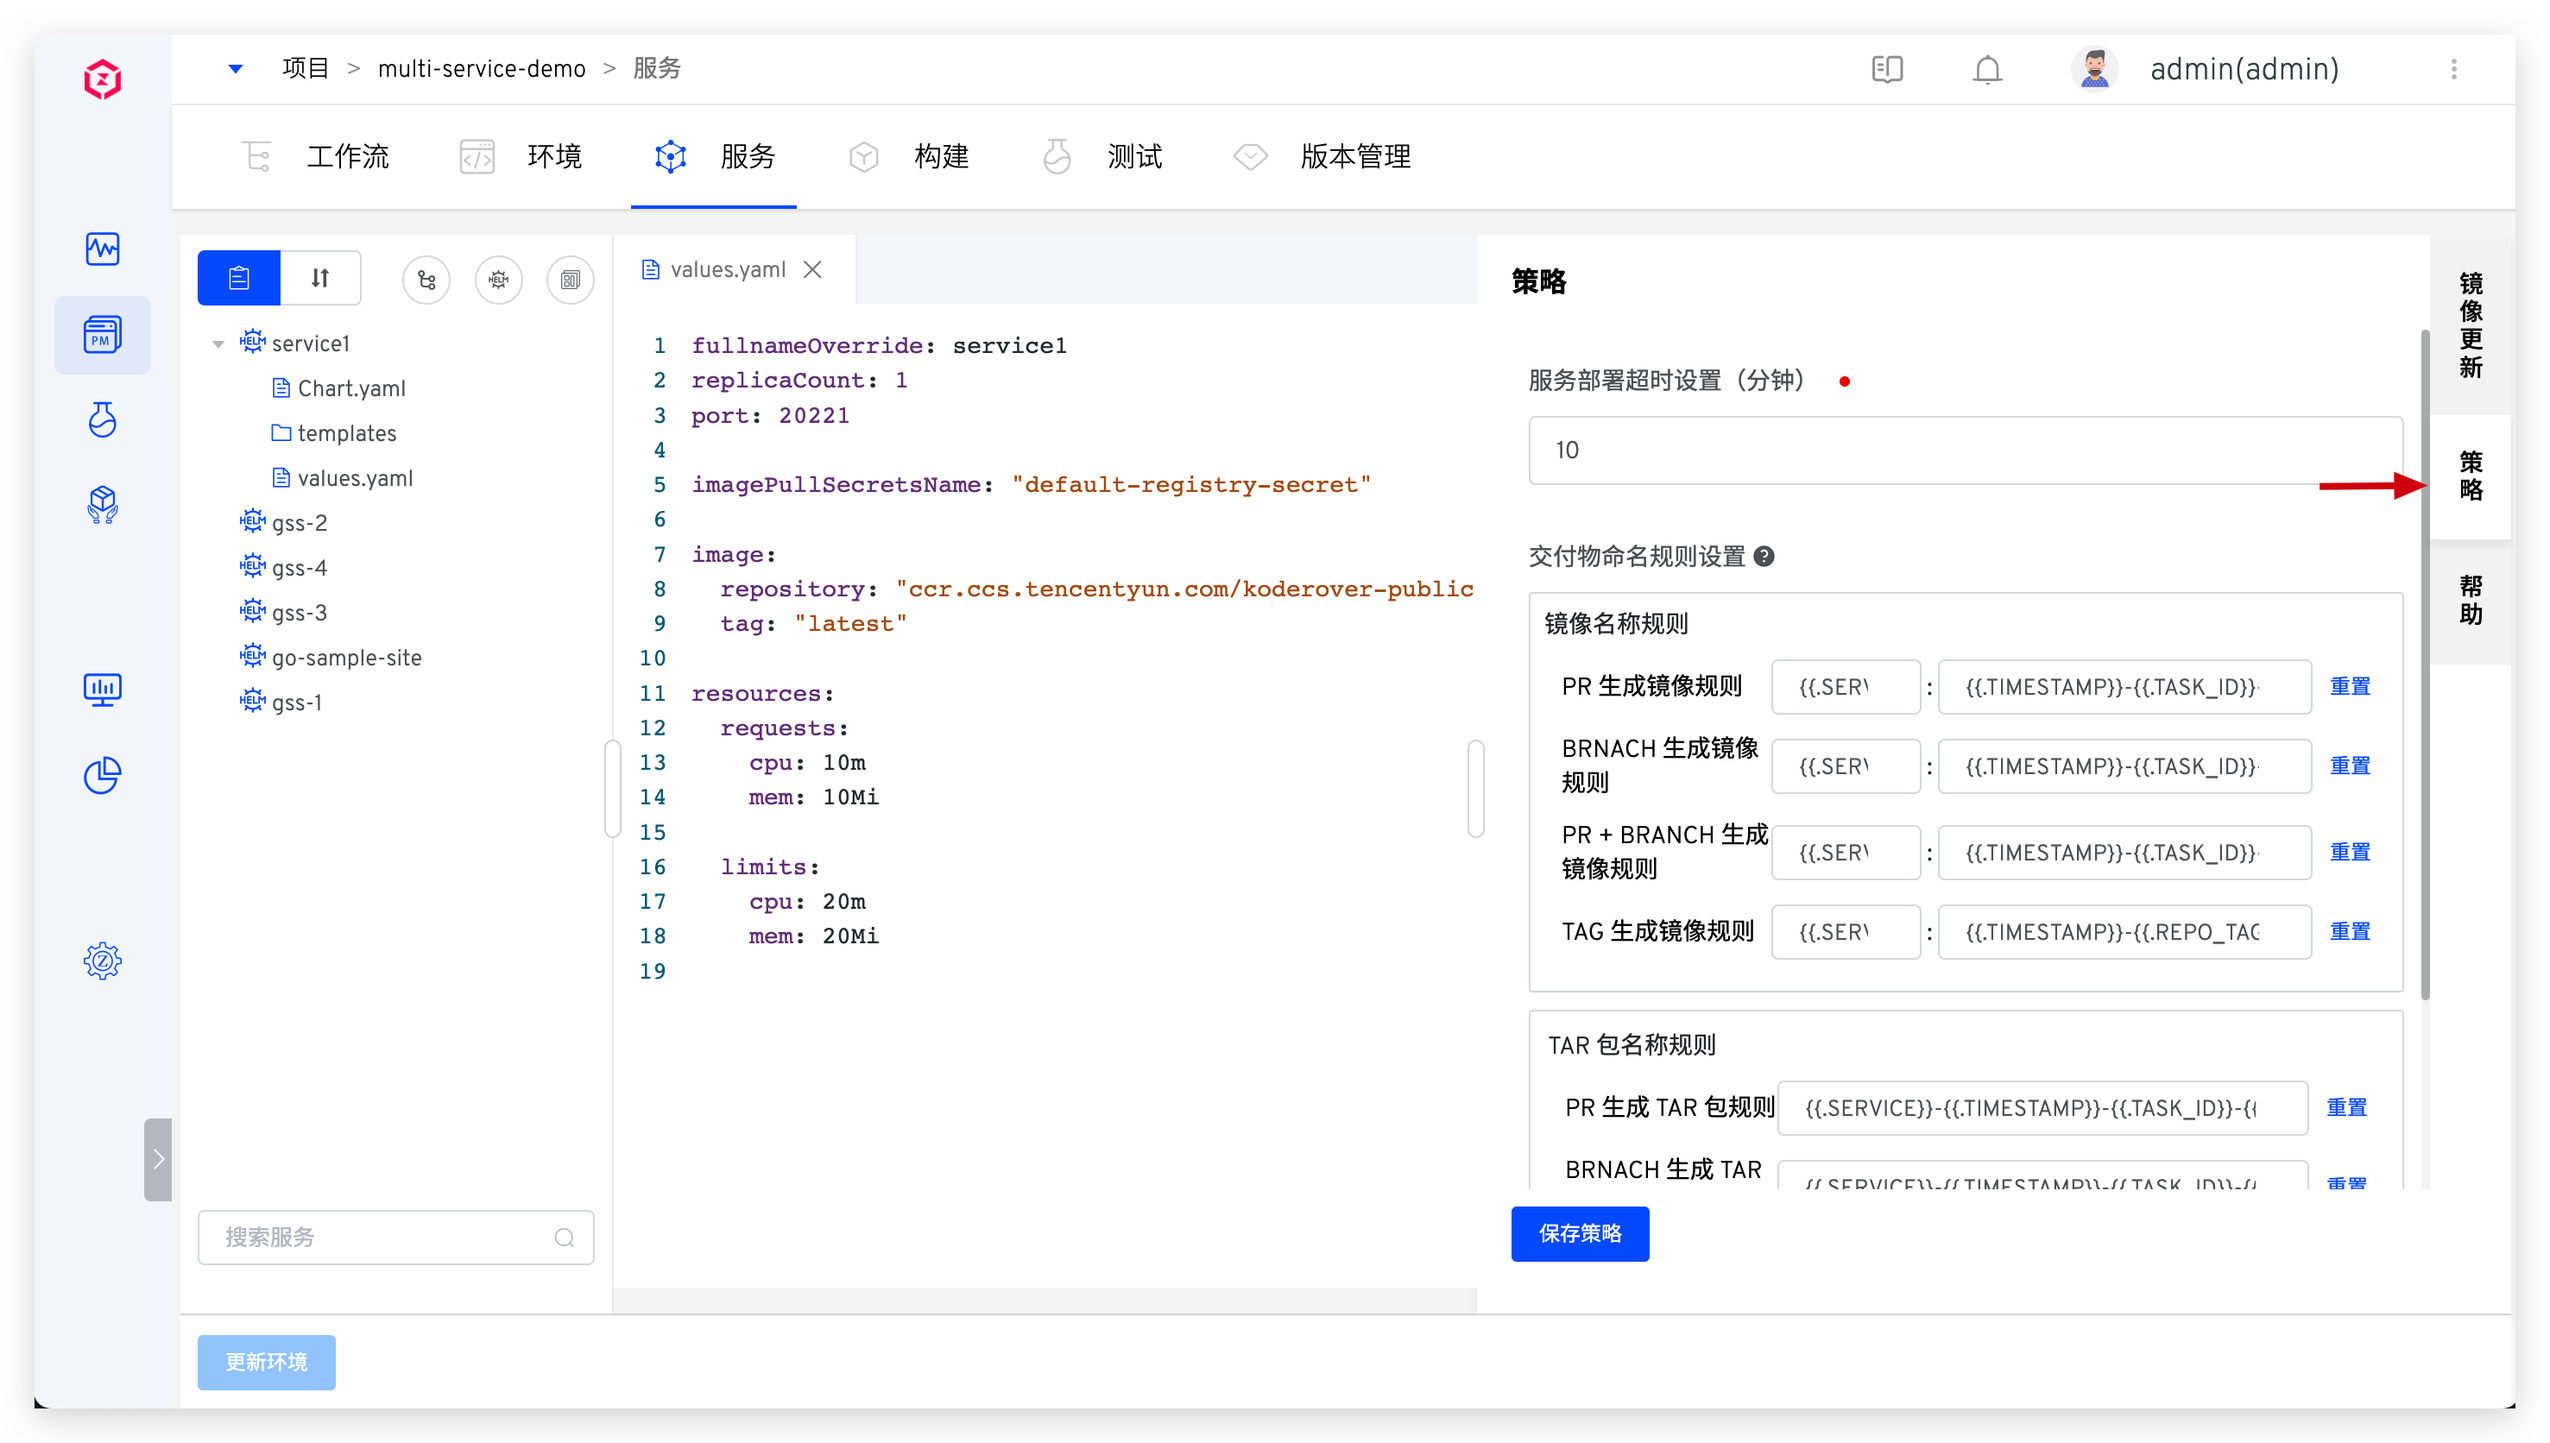
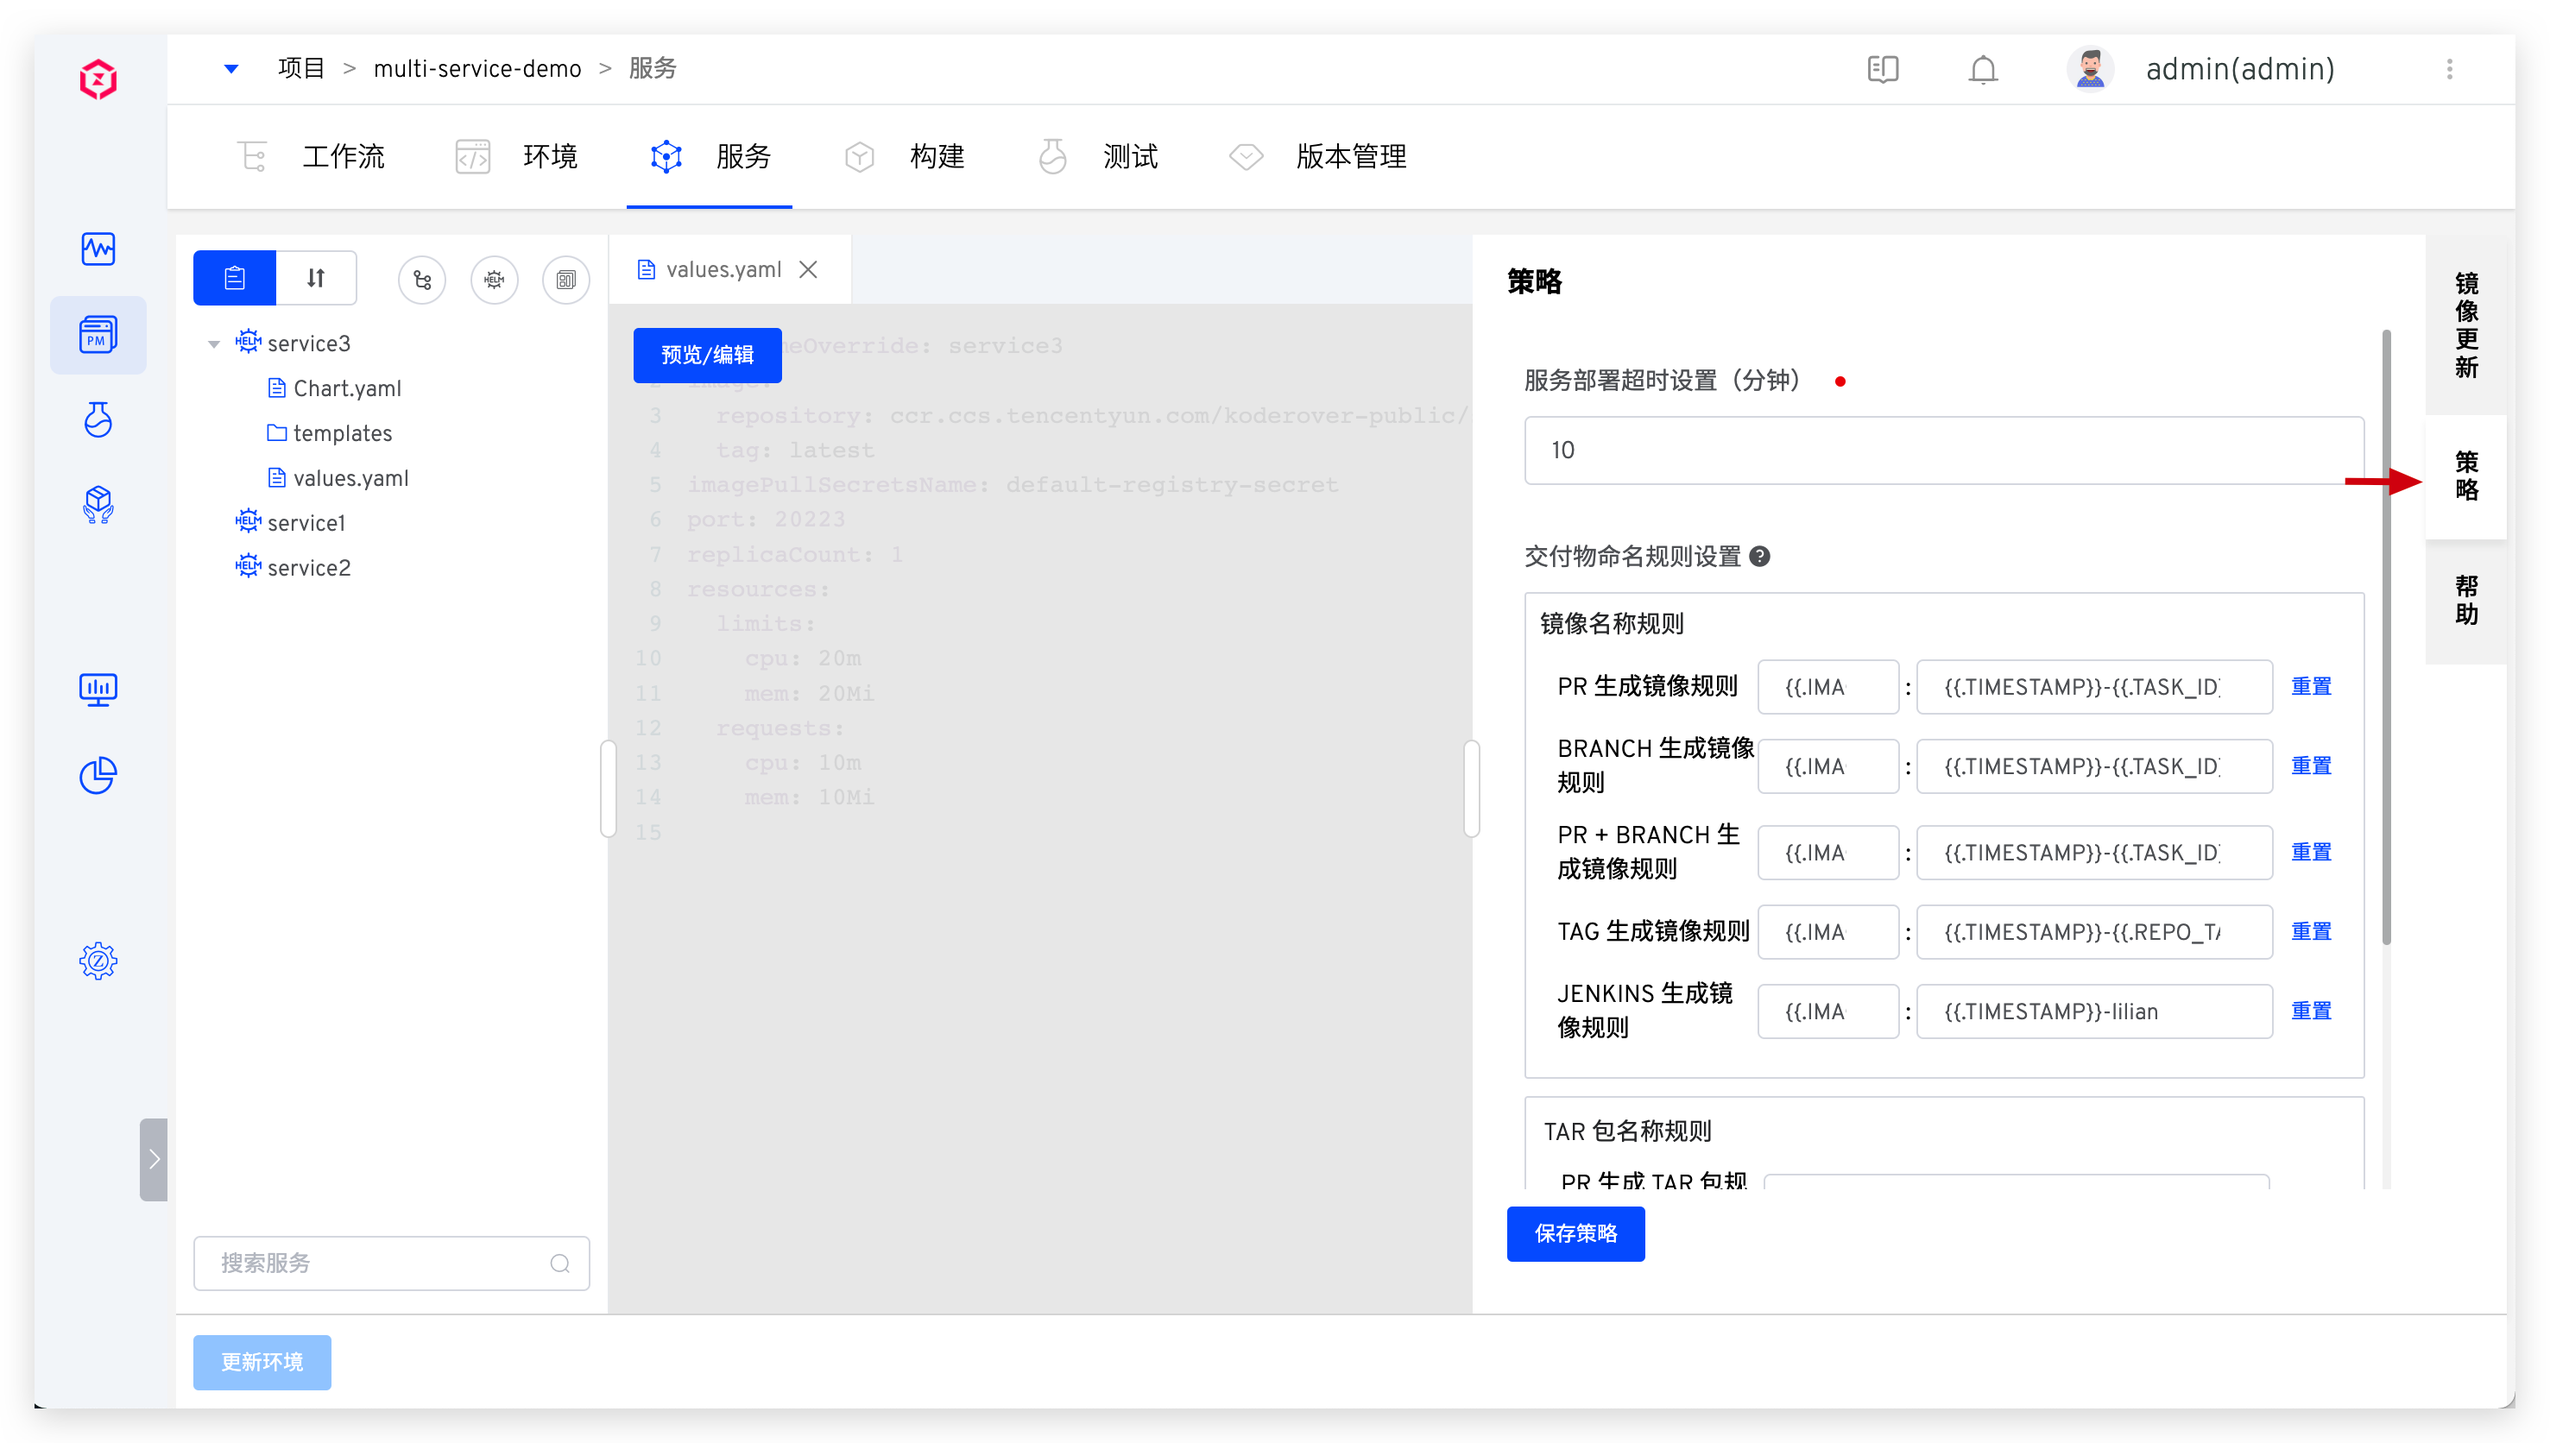
update service strategy config

diff --git a/dev/04.项目/04.服务/01.k8s_service.md b/dev/04.项目/04.服务/01.k8s_service.md
@@ -218,7 +218,7 @@ spec:
 
 说明如下：
 - 服务部署超时设置：将服务部署到环境中的超时时间，默认值为 10 分钟。若超出该阈值服务仍未处于 Running 状态，则视为部署超时。
-- 交付物命名规则设置：自定义该项目中工作流构建产物的命名规则，对当前项目的所有服务都生效，可通过以下变量和常量组合的方式设置。
+- 交付物命名规则设置：自定义该项目中工作流构建产物的命名规则，对当前项目的所有服务都生效，其中 `JENKINS 生成镜像规则`适用于使用 [Jenkins 构建](/dev/project/build/#jenkins-构建) 的服务。可通过以下变量和常量组合的方式设置。
 
 |变量名称|描述|
 |-------|---|

diff --git a/dev/04.项目/04.服务/03.k8s_host_service.md b/dev/04.项目/04.服务/03.k8s_host_service.md
@@ -21,6 +21,12 @@ permalink: /dev/project/service/k8s/host/
 - `当前镜像版本`：被托管服务实例资源的镜像版本
 - `构建信息/操作`：可为服务组件配置构建操作，定义其构建过程，参考：[构建配置](/dev/project/build)
 
+## 策略配置
+
+在策略中设置部署服务的超时时间以及交付物命名规则。细节可阅读：[策略配置](/dev/project/k8s/service/#策略配置)。
+
+![服务策略配置](../_images/host_service_strategy_config.png)
+
 ## 配置托管服务
 需要将某个服务从环境中移除，或者添加服务到环境中时，点击环境下的`配置托管`。
 

diff --git a/dev/04.项目/04.服务/04.vm_service.md b/dev/04.项目/04.服务/04.vm_service.md
@@ -97,6 +97,11 @@ permalink: /dev/project/service/vm/
     - `健康阈值`：从不健康变为健康的连续探测次数。
     - `不健康阈值`：从健康变为不健康的连续探测次数。
 
+## 策略配置
+
+点击`策略`，设置部署服务的超时时间以及交付物命名规则，细节可阅读：[策略配置](/dev/project/k8s/service/#策略配置)。
+
+![策略配置](../_images/vm_service_strategy_config.png)
 
 ## 更新服务
 
